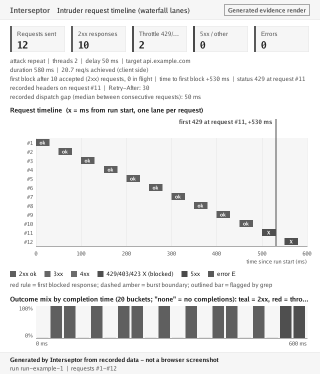
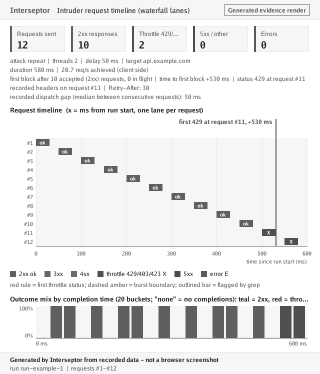
test(preview): tolerance goldens and pixel assertions for every render

Changed region(s): [[0.1562, 0.7059, 0.8438, 0.7941]]

diff --git a/internal/preview/golden_test.go b/internal/preview/golden_test.go
@@ -1,0 +1,148 @@
+package preview
+
+import (
+	"bytes"
+	"fmt"
+	"image"
+	"image/color"
+	"image/png"
+	"os"
+	"path/filepath"
+	"testing"
+)
+
+// Golden comparison tolerates small anti-aliasing drift (font or image library
+// upgrades) but still catches layout and colour regressions: every pixel of a
+// 2x grayscale thumbnail may differ by up to goldenLumaTol, and at most
+// goldenMaxDiffPct percent of pixels may exceed that. UPDATE_GOLDEN=1
+// regenerates the files.
+const (
+	goldenLumaTol    = 24
+	goldenMaxDiffPct = 0.5
+	goldenMaxBytes   = 20 * 1024
+)
+
+func goldenThumb(t *testing.T, data []byte) *image.Gray {
+	t.Helper()
+	img, err := png.Decode(bytes.NewReader(data))
+	if err != nil {
+		t.Fatal(err)
+	}
+	b := img.Bounds()
+	th := image.NewGray(image.Rect(0, 0, b.Dx()/2, b.Dy()/2))
+	for y := 0; y < th.Rect.Dy(); y++ {
+		for x := 0; x < th.Rect.Dx(); x++ {
+			sum := uint32(0)
+			for dy := 0; dy < 2; dy++ {
+				for dx := 0; dx < 2; dx++ {
+					r, g, bl, _ := img.At(2*x+dx, 2*y+dy).RGBA()
+					sum += (299*r + 587*g + 114*bl) / 1000 >> 8
+				}
+			}
+			th.SetGray(x, y, color.Gray{Y: uint8(sum / 4)})
+		}
+	}
+	return th
+}
+
+func encodeThumb(t *testing.T, th *image.Gray) []byte {
+	t.Helper()
+	var buf bytes.Buffer
+	if err := (&png.Encoder{CompressionLevel: png.BestCompression}).Encode(&buf, th); err != nil {
+		t.Fatal(err)
+	}
+	return buf.Bytes()
+}
+
+// diffThumbs returns how many pixels differ by more than tol, and the total.
+func diffThumbs(a, b *image.Gray, tol int) (diff, total int) {
+	total = a.Rect.Dx() * a.Rect.Dy()
+	for y := 0; y < a.Rect.Dy(); y++ {
+		for x := 0; x < a.Rect.Dx(); x++ {
+			d := int(a.GrayAt(x, y).Y) - int(b.GrayAt(x, y).Y)
+			if d < 0 {
+				d = -d
+			}
+			if d > tol {
+				diff++
+			}
+		}
+	}
+	return diff, total
+}
+
+func compareGolden(t *testing.T, name string, rendered []byte) {
+	t.Helper()
+	th := goldenThumb(t, rendered)
+	data := encodeThumb(t, th)
+	if len(data) > goldenMaxBytes {
+		t.Fatalf("golden %s too large: %d bytes", name, len(data))
+	}
+	path := filepath.Join("testdata", name+"_small.png")
+	if os.Getenv("UPDATE_GOLDEN") != "" {
+		_ = os.MkdirAll("testdata", 0o755)
+		if err := os.WriteFile(path, data, 0o644); err != nil {
+			t.Fatal(err)
+		}
+	}
+	raw, err := os.ReadFile(path)
+	if err != nil {
+		t.Fatalf("golden %s missing (UPDATE_GOLDEN=1 to create): %v", name, err)
+	}
+	want, err := png.Decode(bytes.NewReader(raw))
+	if err != nil {
+		t.Fatal(err)
+	}
+	wg, ok := want.(*image.Gray)
+	if !ok {
+		t.Fatalf("golden %s is not grayscale", name)
+	}
+	if wg.Rect != th.Rect {
+		t.Fatalf("golden %s size changed: %v -> %v", name, wg.Rect, th.Rect)
+	}
+	diff, total := diffThumbs(wg, th, goldenLumaTol)
+	if pct := float64(diff) * 100 / float64(total); pct > goldenMaxDiffPct {
+		t.Fatalf("golden %s: %d of %d pixels differ (%.2f%% > %.2f%%); UPDATE_GOLDEN=1 if intended", name, diff, total, pct, goldenMaxDiffPct)
+	}
+}
+
+func TestGoldenToleranceHelper(t *testing.T) {
+	a := image.NewGray(image.Rect(0, 0, 10, 10))
+	b := image.NewGray(image.Rect(0, 0, 10, 10))
+	b.SetGray(1, 1, color.Gray{Y: 10}) // within tolerance
+	if d, _ := diffThumbs(a, b, goldenLumaTol); d != 0 {
+		t.Fatalf("small drift must be tolerated, diff=%d", d)
+	}
+	b.SetGray(2, 2, color.Gray{Y: 200}) // a real change
+	if d, tot := diffThumbs(a, b, goldenLumaTol); d != 1 || tot != 100 {
+		t.Fatalf("diff=%d total=%d", d, tot)
+	}
+}
+
+func TestGoldenRenders(t *testing.T) {
+	cases := map[string]func() (Rendered, error){
+		"intruder_race": func() (Rendered, error) { return RenderIntruderRace(raceFixture(), Opts{Width: 640}) },
+		"intruder_strip": func() (Rendered, error) {
+			rows := stripFixture(60)
+			rows[5].Status, rows[9].Status, rows[20].Length = 429, 200, 4000
+			rows[9].Matched = true
+			return RenderIntruderStrip(StripInput{RunID: "run-example", Attack: "sniper", Rows: rows, Mask: true}, Opts{Width: 640})
+		},
+		"intruder_distribution": func() (Rendered, error) { return RenderIntruderDistribution(distFixture(), Opts{Width: 640}) },
+		"flow_waterfall": func() (Rendered, error) {
+			return RenderFlowWaterfall(WaterfallInput{Title: "Login sequence", Rows: wfRows()}, Opts{Width: 640})
+		},
+		"finding_chain": func() (Rendered, error) { return RenderFindingChain(longChain(7), Opts{Width: 640}) },
+		"authz_matrix":  func() (Rendered, error) { return RenderAuthzMatrix(authzFixture(), Opts{Width: 640}) },
+	}
+	for name, fn := range cases {
+		t.Run(name, func(t *testing.T) {
+			r, err := fn()
+			if err != nil {
+				t.Fatal(err)
+			}
+			compareGolden(t, name, r.PNG)
+		})
+	}
+	_ = fmt.Sprint
+}

diff --git a/internal/preview/pixel_structure_test.go b/internal/preview/pixel_structure_test.go
@@ -1,0 +1,100 @@
+package preview
+
+import (
+	"bytes"
+	"image"
+	"image/color"
+	"image/png"
+	"testing"
+)
+
+func decodeRender(t *testing.T, r Rendered) image.Image {
+	t.Helper()
+	img, err := png.Decode(bytes.NewReader(r.PNG))
+	if err != nil {
+		t.Fatal(err)
+	}
+	return img
+}
+
+func sameRGB(a, b color.Color) bool {
+	ar, ag, ab, _ := a.RGBA()
+	br, bg, bb, _ := b.RGBA()
+	return ar == br && ag == bg && ab == bb
+}
+
+// raceLaneBase is the y of the first lane for a timed run (body starts under
+// the title bar).
+func raceLaneBase(d raceDims) int {
+	y := titleH + 10 + d.bannerH + d.launchH + 24
+	if d.sampled {
+		y += 34
+	}
+	return y
+}
+
+func TestRaceLaneBarsHaveStatusColourAtComputedCoordinates(t *testing.T) {
+	in := raceFixture()
+	r, err := RenderIntruderRace(in, Opts{})
+	if err != nil {
+		t.Fatal(err)
+	}
+	img := decodeRender(t, r)
+	st := analyzeRace(in)
+	d := raceLayout(r.Width, len(in.Rows), defaultMaxRows, len(st.Groups), st.HasTiming)
+	pal := lightReportPalette()
+	ax0, ax1 := frameGut+150, r.Width-frameGut-10
+	xs := func(us int64) int { return ax0 + int(float64(us)/float64(st.MaxEndUs)*float64(ax1-ax0)) }
+	top := raceLaneBase(d)
+	for i, row := range in.Rows {
+		x := xs((row.StartUs + row.EndUs) / 2)
+		y := top + i*d.laneH + d.laneH/2
+		if got := img.At(x, y); !sameRGB(got, pal.statusColor(row.Status)) && !sameRGB(got, pal.ink) {
+			t.Fatalf("lane %d (status %d) at (%d,%d): got %v", i, row.Status, x, y, got)
+		}
+		// before the bar starts, the lane is background, not a bar
+		if row.StartUs > 3000 {
+			if got := img.At(xs(row.StartUs)-6, y); sameRGB(got, pal.statusColor(row.Status)) {
+				t.Fatalf("lane %d paints before its start", i)
+			}
+		}
+	}
+	// the last two rows are 409s and must differ in colour from the 200 lanes
+	if sameRGB(pal.statusColor(200), pal.statusColor(409)) {
+		t.Fatal("palette collision")
+	}
+}
+
+func TestChainCardsAndEdgesAreDrawn(t *testing.T) {
+	in := linearChain()
+	r, err := RenderFindingChain(in, Opts{})
+	if err != nil {
+		t.Fatal(err)
+	}
+	img := decodeRender(t, r)
+	g := buildChainGraph(in)
+	geo := g.geometry(r.Width)
+	pos := g.positions(geo)
+	pal := lightReportPalette()
+	for _, n := range in.Nodes {
+		at := pos[n.ID]
+		at.y += titleH
+		// severity stripe on the card's left edge
+		if got := img.At(at.x+2, at.y+geo.cardH/2); !sameRGB(got, severityColor(pal, n.Severity)) {
+			t.Fatalf("card %s stripe: got %v want %v", n.ID, got, severityColor(pal, n.Severity))
+		}
+		// card outline
+		if got := img.At(at.x+geo.cardW/2, at.y); !sameRGB(got, pal.muted) {
+			t.Fatalf("card %s outline: got %v", n.ID, got)
+		}
+	}
+	// A -> B: a line leaves A's right edge at mid height
+	a := pos["A"]
+	if got := img.At(a.x+geo.cardW+4, a.y+titleH+geo.cardH/2); !sameRGB(got, pal.muted) {
+		t.Fatalf("edge from A missing: %v", got)
+	}
+	// and the gap above the cards stays background
+	if got := img.At(a.x+geo.cardW+4, a.y+titleH-6); !sameRGB(got, pal.paper) {
+		t.Fatalf("unexpected ink above the edge: %v", got)
+	}
+}

diff --git a/internal/preview/intruder_timeline_test.go b/internal/preview/intruder_timeline_test.go
@@ -3,8 +3,6 @@ package preview
 import (
 	"bytes"
 	"crypto/sha256"
-	"image"
-	"image/color"
 	"image/png"
 	"os"
 	"path/filepath"
@@ -71,55 +69,7 @@ func TestTimelineDeterministicAndGolden(t *testing.T) {
 	if sha256.Sum256(a.PNG) != sha256.Sum256(b.PNG) || a.Alt != b.Alt {
 		t.Fatal("renders differ")
 	}
-	golden := tlGoldenThumb(t, a.PNG)
-	if len(golden) > 20*1024 {
-		t.Fatalf("golden too large: %d", len(golden))
-	}
-	path := filepath.Join("testdata", "intruder_timeline_small.png")
-	if os.Getenv("UPDATE_GOLDEN") != "" {
-		_ = os.MkdirAll("testdata", 0o755)
-		if err := os.WriteFile(path, golden, 0o644); err != nil {
-			t.Fatal(err)
-		}
-	}
-	want, err := os.ReadFile(path)
-	if err != nil {
-		t.Fatalf("golden missing (UPDATE_GOLDEN=1 to create): %v", err)
-	}
-	if !bytes.Equal(want, golden) {
-		t.Fatal("PNG differs from golden")
-	}
-}
-
-// tlGoldenThumb reduces the render to a 2x box-filtered grayscale PNG. The full
-// colour render does not fit the 20KB golden budget (anti-aliased text), so the
-// golden pins layout and colour luminance; exact full-size bytes are covered by
-// the two-render hash check.
-func tlGoldenThumb(t *testing.T, data []byte) []byte {
-	t.Helper()
-	img, err := png.Decode(bytes.NewReader(data))
-	if err != nil {
-		t.Fatal(err)
-	}
-	b := img.Bounds()
-	th := image.NewGray(image.Rect(0, 0, b.Dx()/2, b.Dy()/2))
-	for y := 0; y < th.Rect.Dy(); y++ {
-		for x := 0; x < th.Rect.Dx(); x++ {
-			sum := uint32(0)
-			for dy := 0; dy < 2; dy++ {
-				for dx := 0; dx < 2; dx++ {
-					r, g, bl, _ := img.At(2*x+dx, 2*y+dy).RGBA()
-					sum += (299*r + 587*g + 114*bl) / 1000 >> 8
-				}
-			}
-			th.SetGray(x, y, color.Gray{uint8(sum / 4)})
-		}
-	}
-	var buf bytes.Buffer
-	if err := (&png.Encoder{CompressionLevel: png.BestCompression}).Encode(&buf, th); err != nil {
-		t.Fatal(err)
-	}
-	return buf.Bytes()
+	compareGolden(t, "intruder_timeline", a.PNG)
 }
 
 func TestTimelineNoTimingFallback(t *testing.T) {

diff --git a/internal/preview/intruder_race.go b/internal/preview/intruder_race.go
@@ -337,7 +337,7 @@ func raceLegendNote(st raceStats) string {
 }
 
 func raceLayout(w, n, budget, groups int, timed bool) raceDims {
-	d := raceDims{bannerH: 70, launchH: 110, narrow: raceNarrow(w)}
+	d := raceDims{bannerH: 84, launchH: 110, narrow: raceNarrow(w)}
 	d.laneH = 16
 	if n > 30 {
 		d.laneH = 8
@@ -349,7 +349,7 @@ func raceLayout(w, n, budget, groups int, timed bool) raceDims {
 	if budget < d.lanes {
 		d.lanes = budget
 	}
-	const cardH = 150
+	const cardH = 170
 	d.tableH = 40 + (min(groups, raceMaxGroups)+1)*24 + 20
 	if d.narrow {
 		d.tableH += 20 + cardH
@@ -400,8 +400,11 @@ func drawRace(c *canvas, body image.Rectangle, in RaceInput, st raceStats, rows 
 	c.rect(x0, y, x1-x0, d.bannerH-14, p.panel)
 	c.strokeRect(x0, y, x1-x0, d.bannerH-14, p.grid)
 	c.rect(x0, y, 4, d.bannerH-14, p.accent)
-	c.text(x0+14, y+8, c.truncate(fontBold, 15, st.Banner, x1-x0-28), fontBold, 15, p.ink)
-	c.text(x0+14, y+32, c.truncate(fontSans, 12, strings.Join(raceNotes(in, st), "  |  "), x1-x0-28), fontSans, 12, p.muted)
+	bl := c.wrap(fontBold, 15, st.Banner, x1-x0-28, 2)
+	for i, l := range bl {
+		c.text(x0+14, y+8+i*20, l, fontBold, 15, p.ink)
+	}
+	c.text(x0+14, y+12+len(bl)*20, c.truncate(fontSans, 12, strings.Join(raceNotes(in, st), "  |  "), x1-x0-28), fontSans, 12, p.muted)
 	y += d.bannerH
 
 	labelW := 0

diff --git a/internal/preview/intruder_strip.go b/internal/preview/intruder_strip.go
@@ -476,7 +476,7 @@ func drawStripOutliers(c *canvas, in StripInput, outs []stripOutlier, y, w int) 
 		c.text(cols[0], y+2, fmt.Sprintf("#%d", o.Seq), fontMono, 12, pal.ink)
 		c.text(cols[1], y+2, c.truncate(fontMono, 12, in.display(o.Payload), cols[2]-cols[1]-10), fontMono, 12, pal.ink)
 		c.rect(cols[2], y+3, 12, 12, col)
-		c.text(cols[2]+18, y+2, fmt.Sprintf("%s %d", statusGlyph(o.Status), o.Status), fontBold, 12, pal.ink)
+		c.text(cols[2]+18, y+2, statusChipText(o.Status), fontBold, 12, pal.ink)
 		c.text(cols[3], y+2, fmt.Sprintf("%d", o.Length), fontSans, 12, pal.ink)
 		c.text(cols[4], y+2, fmt.Sprintf("%+d", o.Delta), fontSans, 12, pal.ink)
 		c.text(cols[5], y+2, c.truncate(fontSans, 12, strings.Join(o.Reasons, ", "), w-frameGut-cols[5]), fontSans, 12, pal.ink)

diff --git a/internal/preview/intruder_timeline.go b/internal/preview/intruder_timeline.go
@@ -757,13 +757,13 @@ func drawTimelineLegend(c *canvas, top int, g tlGeom, st tlStats) {
 	p := c.pal
 	items := []legendItem{
 		{"2xx ok", p.success}, {"3xx", p.redirect}, {"4xx", p.client},
-		{"429/403/423 X (blocked)", p.blocked}, {"5xx", p.server}, {"error E", p.errc},
+		{"throttle 429/403/423 X", p.blocked}, {"5xx", p.server}, {"error E", p.errc},
 	}
 	y := top + g.LegendY
 	h := c.legend(frameGut, y, g.W-frameGut, items)
 	extra := "outlined bar = flagged by grep"
 	if !g.Strip {
-		extra = "red rule = first blocked response; dashed amber = burst boundary; " + extra
+		extra = "red rule = first throttle status; dashed amber = burst boundary; " + extra
 	}
 	c.text(frameGut, y+h, extra, fontSans, 12, p.muted)
 }

diff --git a/internal/preview/intruder_distribution.go b/internal/preview/intruder_distribution.go
@@ -693,7 +693,7 @@ func drawLatencyChart(c *canvas, y0 int, r image.Rectangle, rows []DistRow) {
 	var items []legendItem
 	for cls, u := range used {
 		if u {
-			items = append(items, legendItem{classNames[cls] + " " + statusGlyph(classRepStatus[cls]), p.statusColor(classRepStatus[cls])})
+			items = append(items, legendItem{classNames[cls], p.statusColor(classRepStatus[cls])})
 		}
 	}
 	plotR := image.Rect(r.Min.X, r.Min.Y+4, r.Max.X, r.Max.Y-14)

diff --git a/CHANGELOG.md b/CHANGELOG.md
@@ -34,6 +34,7 @@ and this project adheres to [Semantic Versioning](https://semver.org/).
 - **Flow timing waterfall render (`preview.RenderFlowWaterfall`).** Deterministic PNG of a flow sequence: rows sorted by start then flow id, bars on a shared offset axis (ms, or s above 5000 ms), status chips with glyphs, 2px minimum bar for 0 ms flows, aggregated bucket beyond the row/height budget, and an explicit note that only total duration is recorded (no phase split).
 
 ### Fixed
+- **Render test quality.** Goldens for the timeline, race, strip, distribution, waterfall, chain and authz renders compare 2x grayscale thumbnails with a per-pixel luma tolerance and a small percentage budget (UPDATE_GOLDEN=1 regenerates), and race lanes and chain cards/edges have pixel assertions at computed coordinates. Legends now spell the status class (`throttle 429/403/423 X`, `4xx`) and outlier status text is no longer a bare glyph; the race banner wraps to two lines and the first-vs-last card keeps its full height.
 - **Flow diff banner.** `No differences` now reads `No response differences` and a note says when the method or URL of the two flows differ (requests are not compared), so identical responses never read as identical requests.
 - **Finding chain stays readable at 12 findings.** Stages wrap into rows (reading order, cross-row relations routed through a channel under the source row) instead of shrinking cards to about 85 px; cards keep at least 150 px, narrow cards get three title lines, the finding ID is shown on each card and the `+N more findings not drawn` note appears once instead of in the header, footer and notes.
 - **Authz matrix no longer gives false assurance.** The headline reads `N broken, M unclassified of K cells` with a green accent only when every cell was classified and none is broken (amber when cells have no verdict); lengths are abbreviated (`1.2k`) instead of clipped and long identity headers are middle-elided and numbered with a full-name legend so shared prefixes stay distinguishable.
